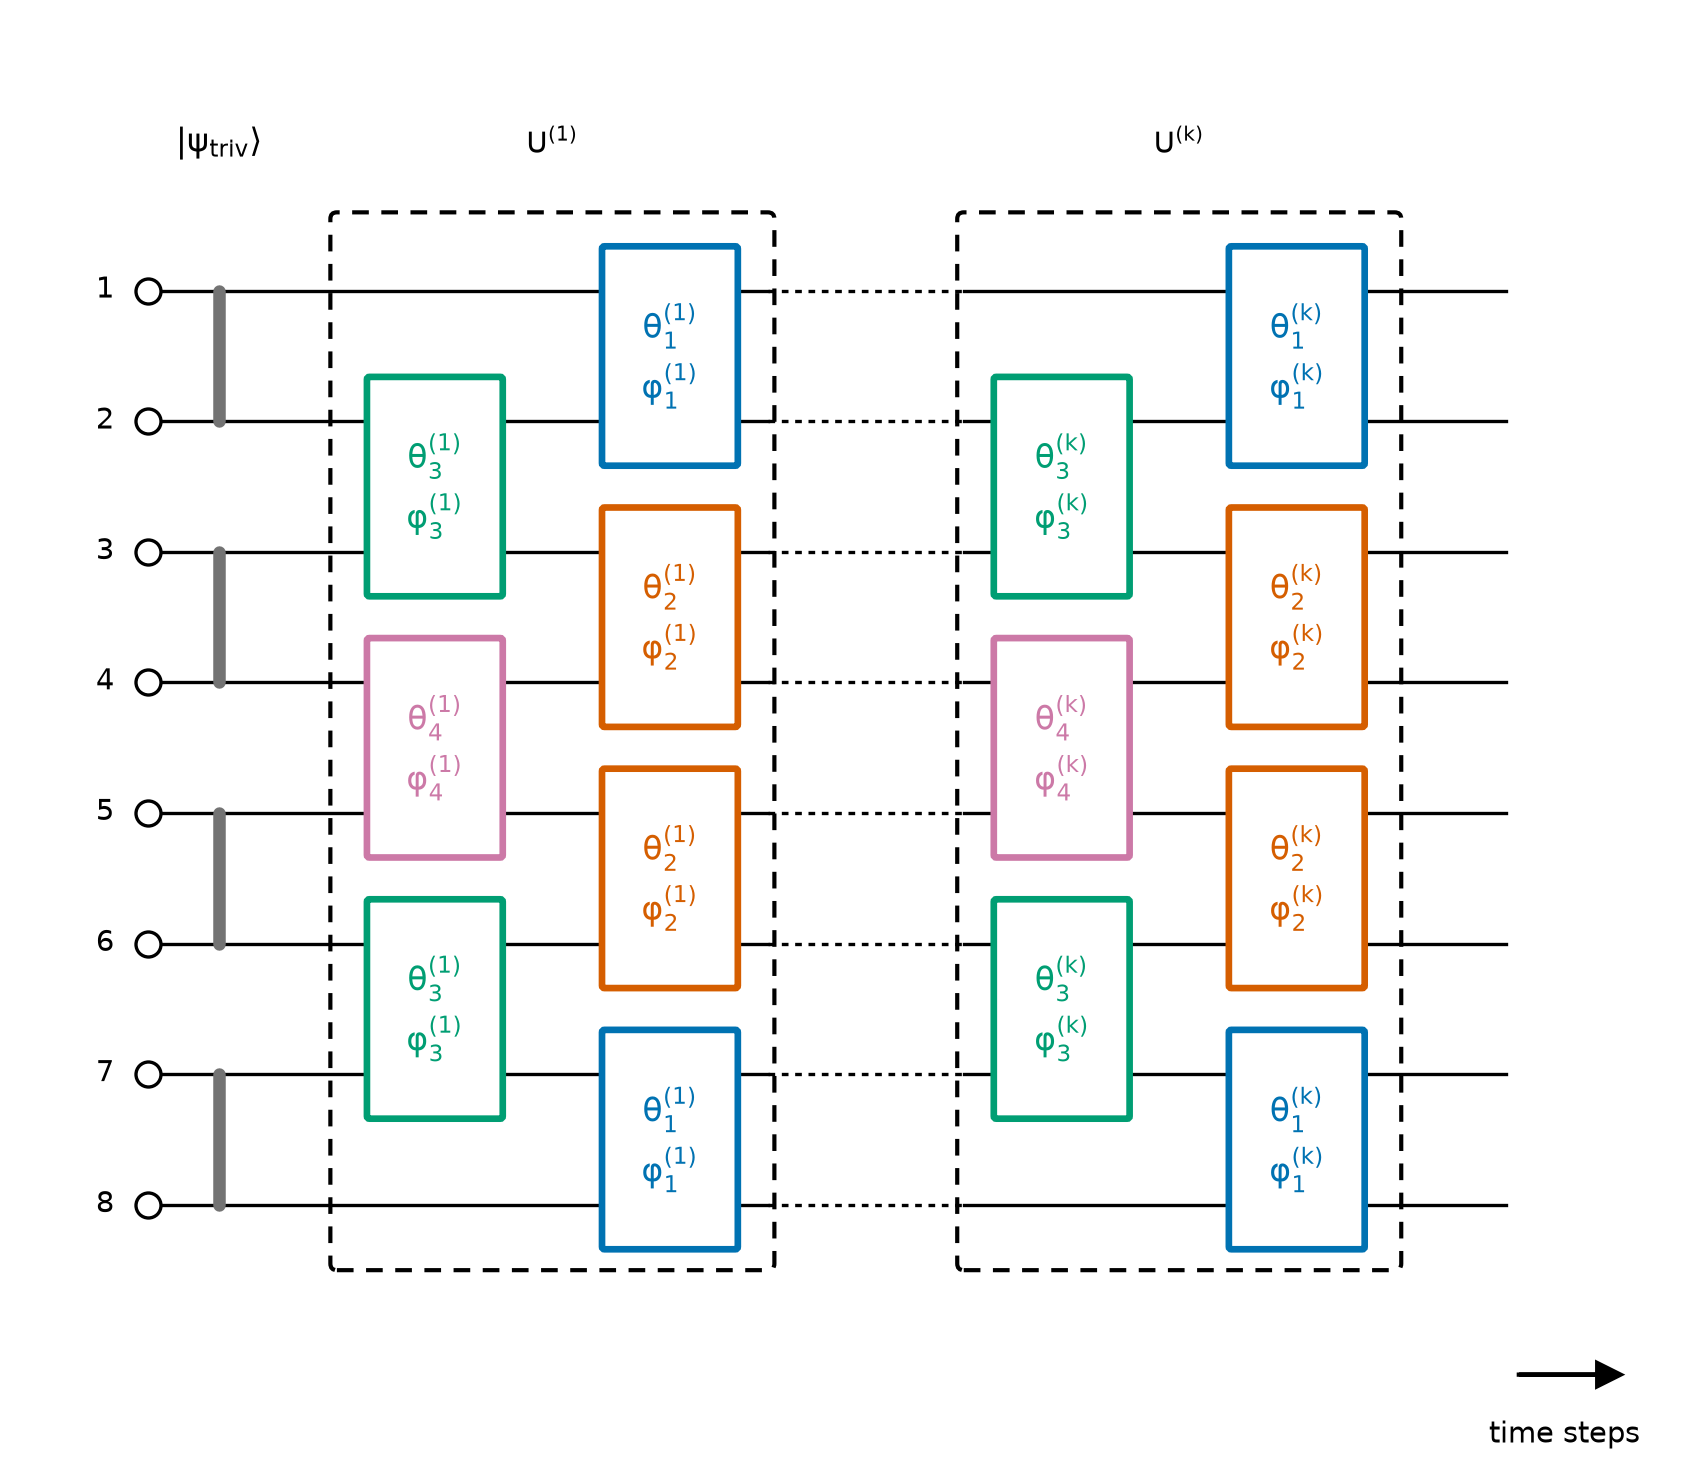
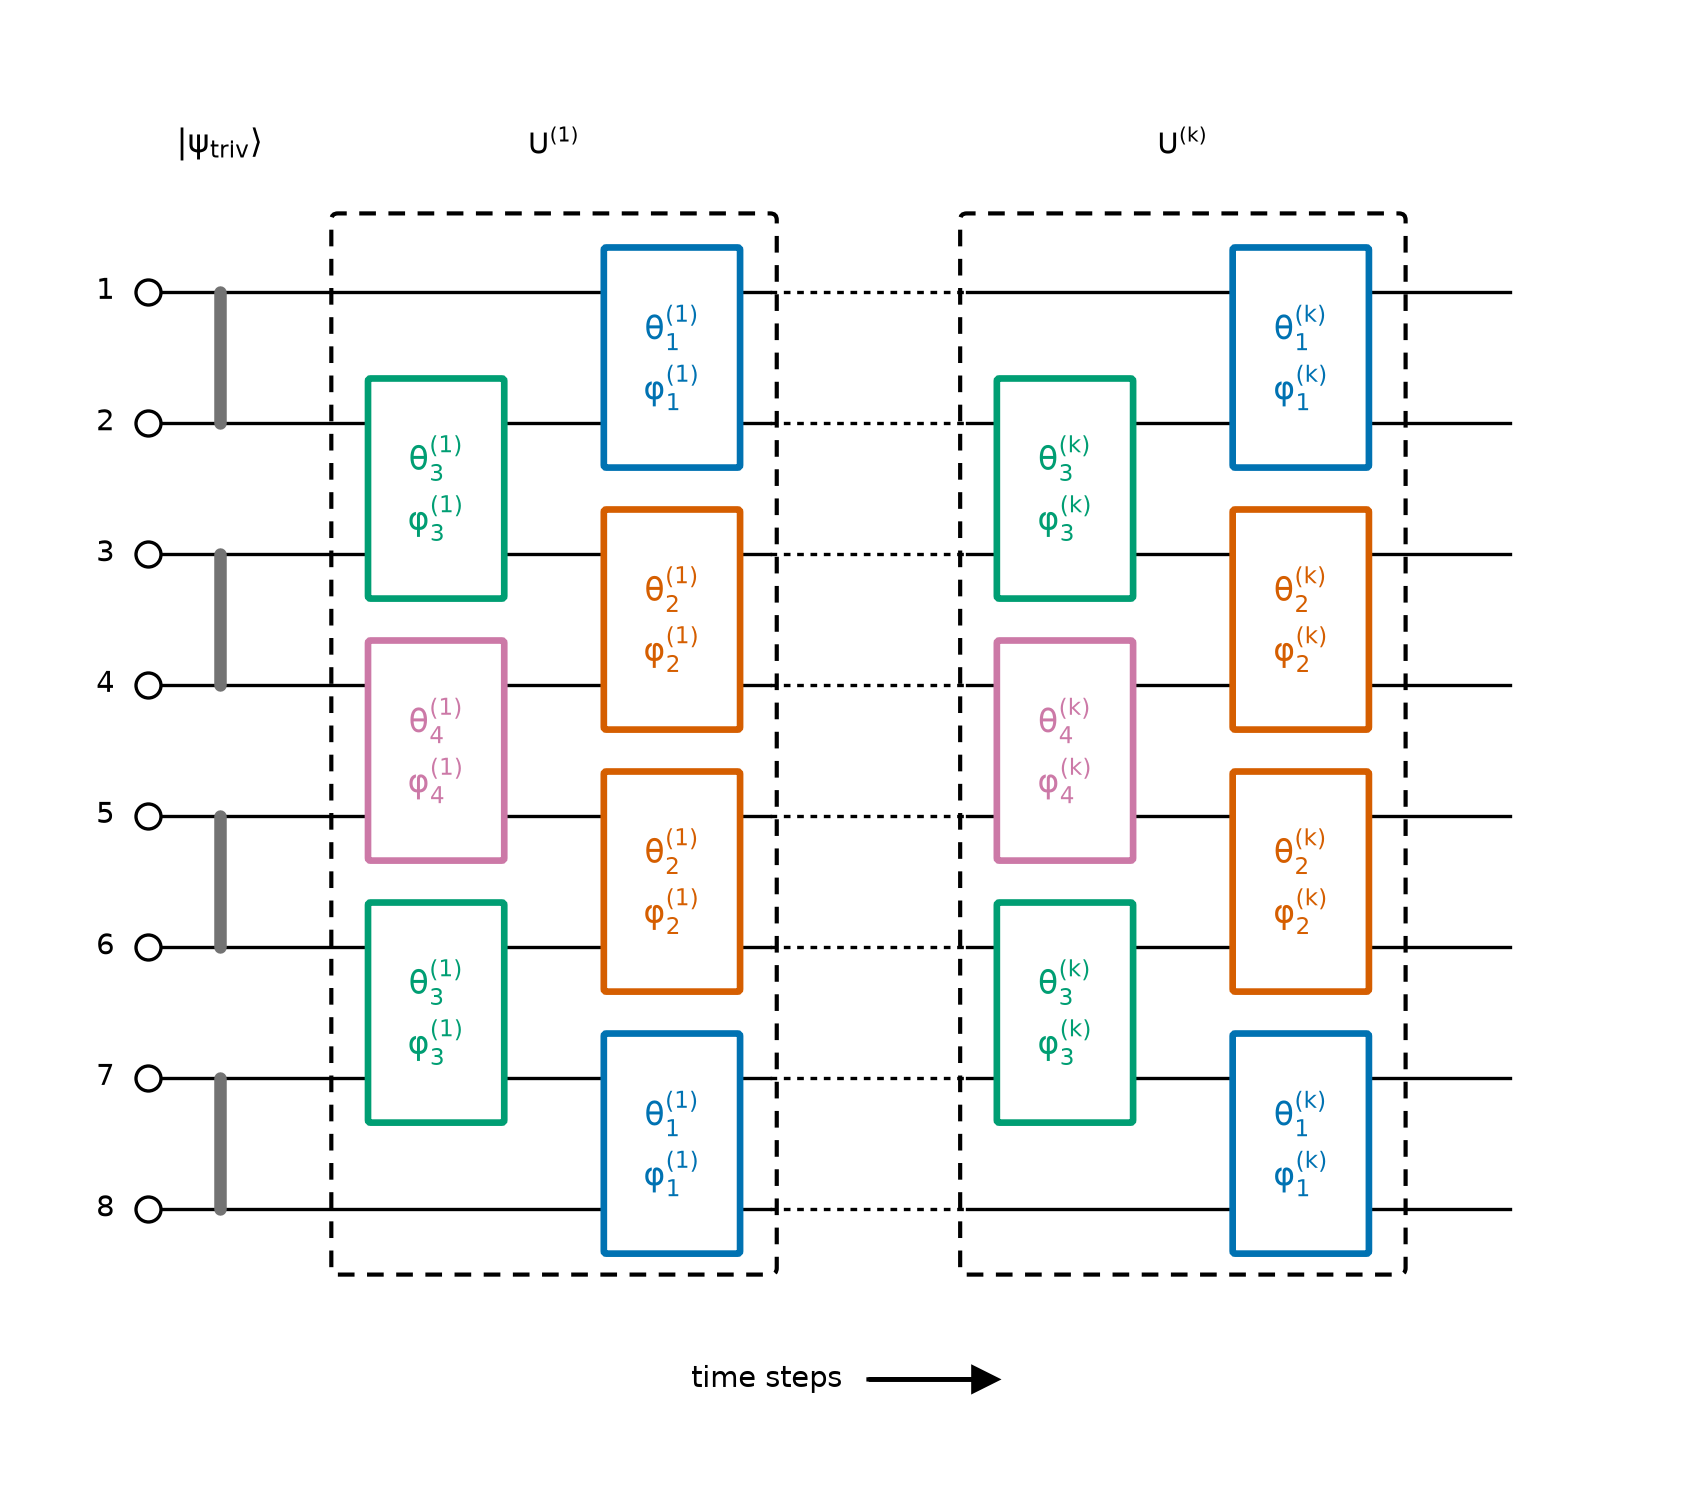
time steps箭头居中底部, 标注改箭头左侧

diff --git a/scripts/plot_D06.py b/scripts/plot_D06.py
@@ -60,10 +60,9 @@ def draw_wires(ax, x0=0.0, x1=10.4):
                    edgecolors="black", linewidths=0.8, zorder=3)
         ax.text(x0 - 0.25, y, rf"${i + 1}$", ha="right",
                 va="center", fontsize=7)
-    ax.arrow(x1 + 0.1, -1.3, 0.6, 0, head_width=0.18, head_length=0.18,
+    ax.arrow(5.5, -1.3, 0.8, 0, head_width=0.18, head_length=0.18,
              fc="black", ec="black")
-    ax.text(x1 + 0.45, -1.65, "time steps", ha="center", va="top",
-            fontsize=7)
+    ax.text(5.3, -1.3, "time steps", ha="right", va="center", fontsize=7)
 
 
 def link_bar(ax, a, b, x):
